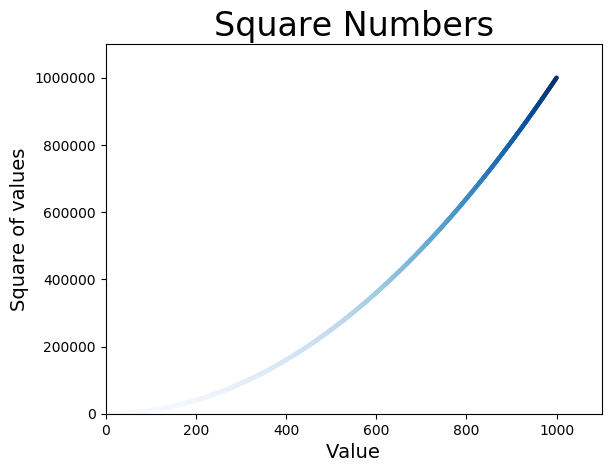
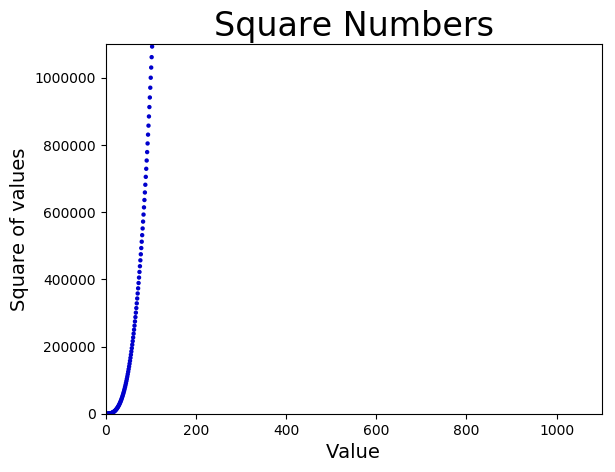
python-dev -- data-visualization - random walks progress

diff --git a/data-visualization/random_walk.py b/data-visualization/random_walk.py
@@ -1,0 +1,24 @@
+from random import choice
+
+class RandomWalk():
+    """ A class to generate random walks. """
+
+    __init__(self, num_points = 5000):
+    """ Initializes attributes of a walk. """
+
+    self.num_points = num_points
+
+    # All walks start at (0, 0)
+    self.x_values = [0]
+    self.y_values = [0]
+
+
+    def fill_walk(self):
+        """ Calculate all the points in the walk. """
+
+        # Keep taking steps until the walk reaches the desired length
+        while len(self.x_values) < self.num_points:
+            # Decide which direction to go and how far to go in that direction
+            x_direction = choice([1, -1])
+            x_distance = choice([0, 1, 2, 3, 4])
+            x_step = x_direction * x_distance

diff --git a/data-visualization/scatter_squares.py b/data-visualization/scatter_squares.py
@@ -3,8 +3,12 @@ import matplotlib.pyplot as plt
 # x_values = [1, 2, 3, 4, 5]
 # y_values = [1, 4, 9, 16, 25]
 # Loop for generating data
-x_values = list(range(1, 1001))
-y_values = [x ** 2 for x in x_values]
+
+x_values = list(range(1, 5001))
+y_values = [x ** 2 for x in x_values] # squared numbers from the 5000 first items.
+
+# x_values = list(range(1, 5001))
+# y_values = [x ** 3 for x in x_values] # cubic numbers from the 5000 first items. Need to change c = y_values for (0, 0, 0.8) otherwise it won't print
 
 # c is the color of the dot you
 # A colormap is a series of colors in a gradient that moves from a starting to
